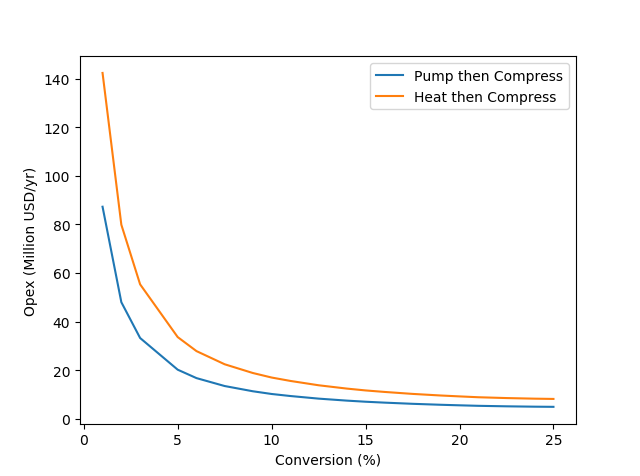
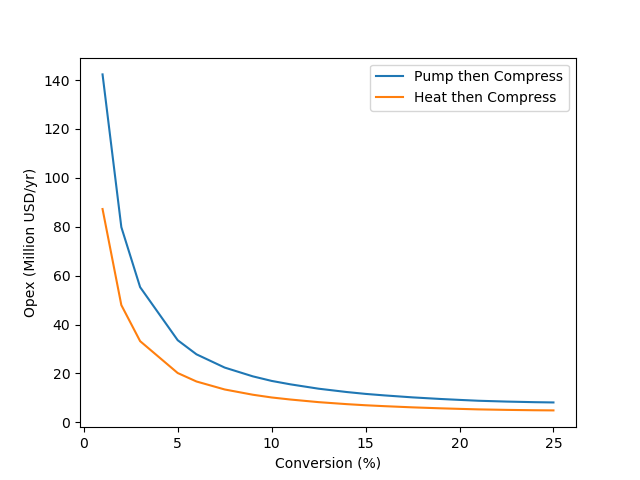
fds

diff --git a/level3_plot.py b/level3_plot.py
@@ -4,10 +4,10 @@ import numpy as np
 
 # -------------------------------Scenario comparison---------------------------------
 def heating_method():
-    HTC = pd.read_excel("Data/new graph seyoung 04032020.xlsx", sheet_name="Sheet3", usecols='B:J').to_numpy()
-    PMC = pd.read_excel("Data/new graph seyoung 04032020.xlsx", sheet_name="Sheet2", usecols='B:R').to_numpy()
-    plt.plot(PMC[:,0], PMC[:,5]/1000000, label="Pump then Compress")
-    plt.plot(HTC[:,0], HTC[:,8]/1000000, label="Heat then Compress")
+    PMC = pd.read_excel("Data/new graph seyoung 04032020.xlsx", sheet_name="Sheet3", usecols='B:J').to_numpy()
+    HTC = pd.read_excel("Data/new graph seyoung 04032020.xlsx", sheet_name="Sheet2", usecols='B:R').to_numpy()
+    plt.plot(PMC[:,0], PMC[:,8]/1000000, label="Pump then Compress")
+    plt.plot(HTC[:,0], HTC[:,5]/1000000, label="Heat then Compress")
     plt.ylabel("Opex (Million USD/yr)")
     plt.xlabel("Conversion (%)")
     plt.legend()
@@ -28,5 +28,11 @@ def ep3_optimal():
     plt.xlabel("Conversion (%)")
     plt.xlim([0, 25])
     plt.show()
+
+def ada_iso():
+    ada = pd.read_excel("Data/Adiabatic vs isothermal.xlsx", sheet_name="Summary", usecols='C:K', skiprows=3).to_numpy()
+    iso = pd.read_excel("Data/Adiabatic vs isothermal.xlsx", sheet_name="Summary", usecols='M:O', skiprows=1).to_numpy()
+
+
 
 heating_method()
